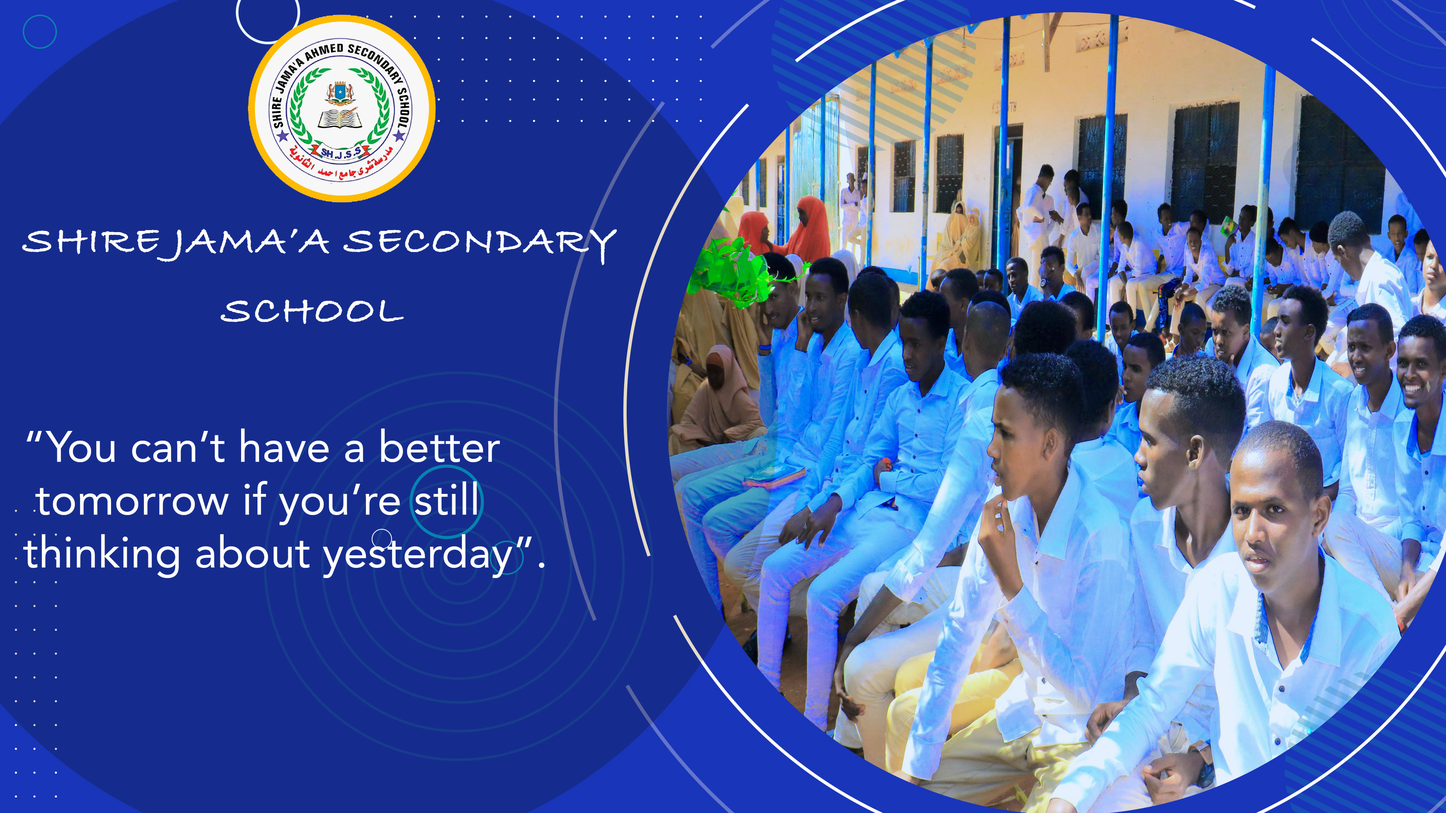
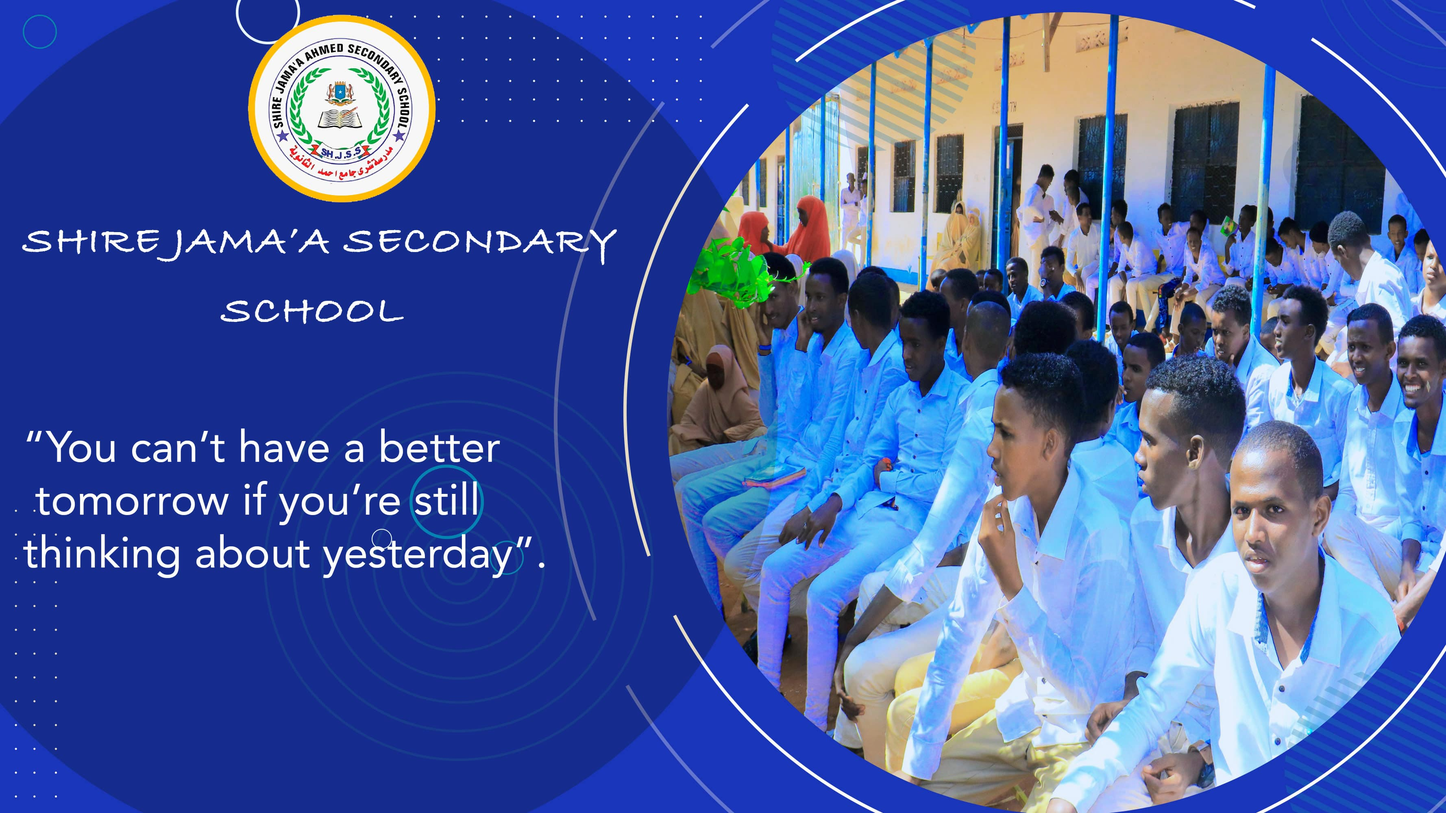
Updates

diff --git a/index.html b/index.html
@@ -80,7 +80,7 @@
     <div id="carouselExampleIndicators" class="carousel slide" data-ride="carousel">
       <div class="carousel-inner" role="listbox">
         <div class="carousel-item active">
-          <div class="img"><img class="d-block img-fluid" src="assets/img/slide/studentone.png" alt="First slide"></div>
+          <div class="img"><img class="d-block img-fluid" src="assets/img/slide/studentone.jpg" alt="First slide"></div>
         </div>
         <div class="carousel-item">
           <div class="img"><img class="d-block img-fluid" data-src="assets/img/slide/studenttwo.jpg" alt="Second slide"></div>
@@ -92,7 +92,7 @@
           <div class="img"><img class="d-block img-fluid" data-src="assets/img/slide/grils.jpg" alt="Third slide"></div>
         </div>
         <div class="carousel-item">
-          <div class="img"><img class="d-block img-fluid" data-src="assets/img/slide/strive.png" alt="Third slide"></div>
+          <div class="img"><img class="d-block img-fluid" data-src="assets/img/slide/strive.jpg" alt="Third slide"></div>
         </div>
         <div class="carousel-item">
           <div class="img"><img class="d-block img-fluid" data-src="assets/img/slide/arday.jpg" alt="Third slide"></div>
